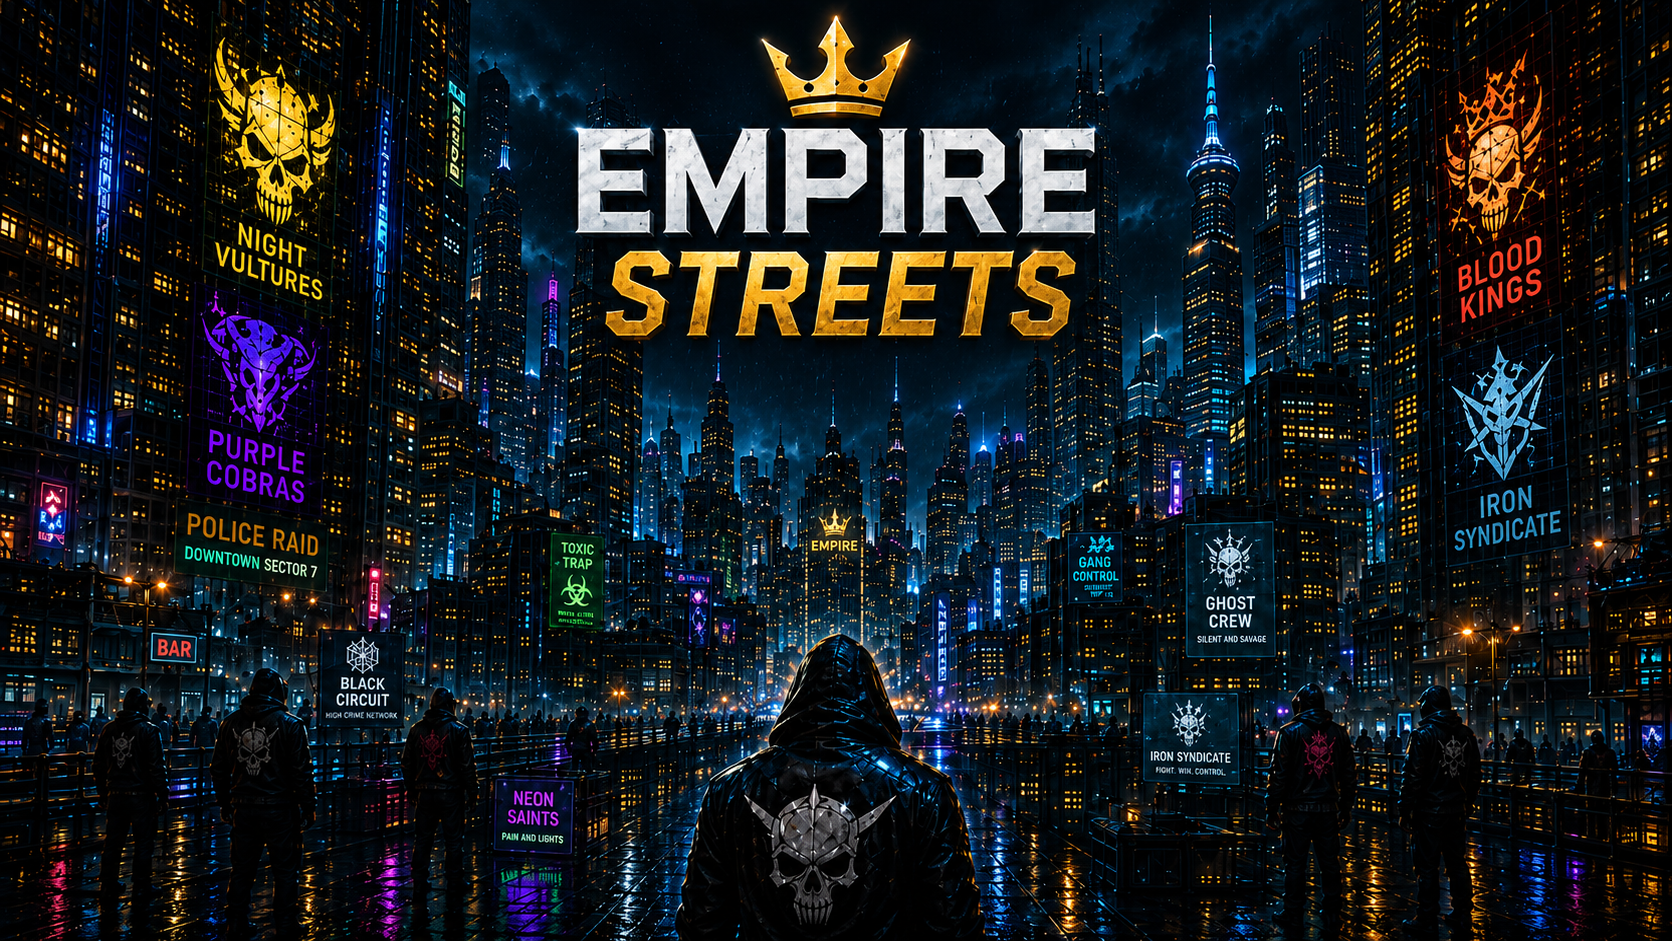
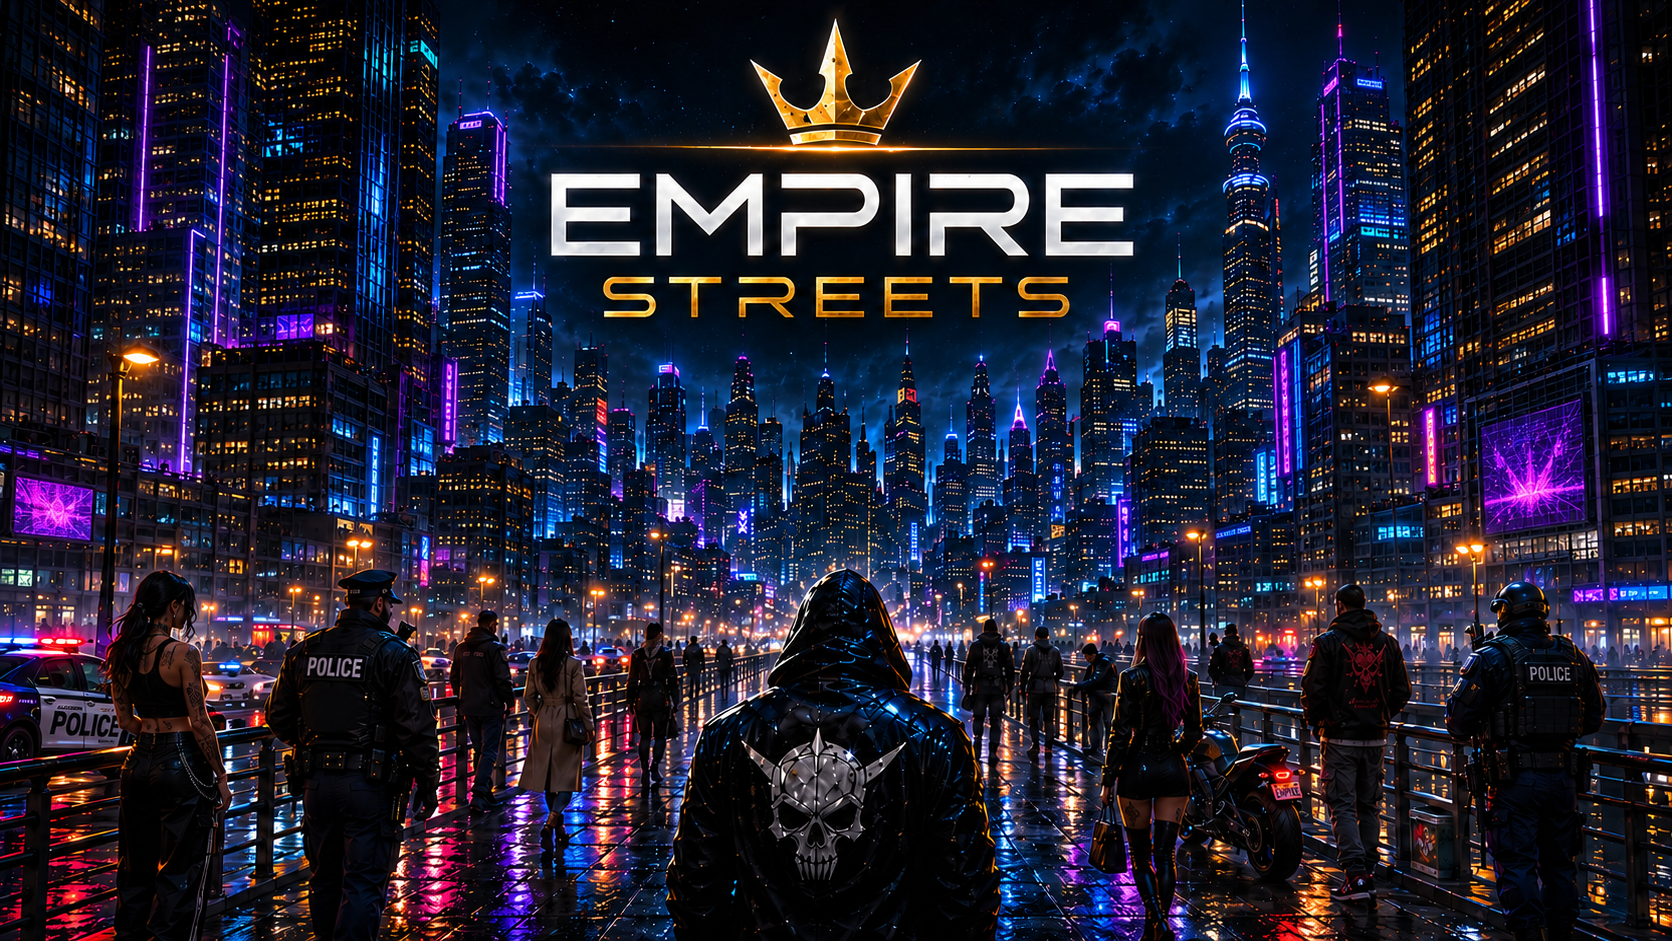
Polish responsive login artwork

diff --git a/page-assets/css/login.css b/page-assets/css/login.css
@@ -69,18 +69,11 @@ body.login-body::after {
 }
 
 body.login-body::before {
-  opacity: 0.3;
-  mix-blend-mode: screen;
-  background:
-    repeating-linear-gradient(90deg, rgba(255, 255, 255, 0.025) 0 1px, transparent 1px 3px),
-    repeating-linear-gradient(0deg, rgba(255, 255, 255, 0.04) 0 1px, transparent 1px 5px);
+  display: none;
 }
 
 body.login-body::after {
-  opacity: 0.08;
-  background-image: radial-gradient(circle at 50% 50%, #fff 0 0.6px, transparent 0.8px);
-  background-size: 5px 5px;
-  animation: noiseDrift 2.8s steps(2) infinite;
+  display: none;
 }
 
 .login-stage {
@@ -223,44 +216,9 @@ body.login-body::after {
   inset: 0;
   z-index: 31;
   pointer-events: none;
-  background:
-    linear-gradient(180deg, rgba(5, 8, 15, 0.22), rgba(2, 4, 10, 0.46)),
-    url("../../img/tapeta2.png") center / cover no-repeat,
-    url("../../img/loginmenu.png") center / cover no-repeat;
-  filter: saturate(0.98) contrast(1.02) brightness(0.82);
-  clip-path: polygon(
-    50% 70.8%,
-    48.9% 71.6%,
-    48.4% 73.1%,
-    47.5% 75.3%,
-    47.1% 77.4%,
-    46.7% 79.6%,
-    46.2% 81.8%,
-    45.9% 84%,
-    44.6% 86.2%,
-    43.1% 88.3%,
-    42.3% 90.5%,
-    42% 92.7%,
-    41.6% 94.9%,
-    41.3% 97.1%,
-    40.9% 100%,
-    58.1% 100%,
-    58% 97.1%,
-    57.9% 94.9%,
-    57.4% 92.7%,
-    56.9% 90.5%,
-    56% 88.3%,
-    54.1% 86.2%,
-    53.6% 84%,
-    53.6% 81.8%,
-    53.2% 79.6%,
-    52.7% 77.4%,
-    52.4% 75.3%,
-    51.8% 73.1%,
-    51.1% 71.6%
-  );
-  -webkit-mask-image: linear-gradient(180deg, transparent 0 69.6%, #000 71.2%, #000 100%);
-  mask-image: linear-gradient(180deg, transparent 0 69.6%, #000 71.2%, #000 100%);
+  background: url("../../img/tapeta2.png") center / cover no-repeat;
+  -webkit-mask: url("../../img/tapeta2-character-mask.svg") center / cover no-repeat;
+  mask: url("../../img/tapeta2-character-mask.svg") center / cover no-repeat;
 }
 
 .hud-panel,
@@ -2450,17 +2408,26 @@ body.login-body::after {
   text-shadow: 0 0 12px rgba(255, 231, 167, 0.92);
 }
 
-.login-footer {
+.login-footer,
+.login-legal-links {
   position: fixed;
-  right: 24px;
-  bottom: 18px;
   z-index: 10;
   display: flex;
   gap: 18px;
 }
 
-.login-footer a,
-.login-footer button {
+.login-footer {
+  right: 24px;
+  bottom: 18px;
+}
+
+.login-legal-links {
+  top: 18px;
+  left: 24px;
+}
+
+.login-footer button,
+.login-legal-links a {
   border: 0;
   color: color-mix(in srgb, var(--active-mode) 74%, rgba(232, 240, 255, 0.7));
   background: transparent;
@@ -2473,14 +2440,14 @@ body.login-body::after {
 }
 
 @media (min-width: 761px) {
-  .login-footer a,
-  .login-footer button {
+  .login-footer button,
+  .login-legal-links a {
     font-size: 0.92rem;
   }
 }
 
-.login-footer a:hover,
-.login-footer button:hover {
+.login-footer button:hover,
+.login-legal-links a:hover {
   color: #fff;
   text-shadow: 0 0 12px rgba(255, 255, 255, 0.84), 0 0 24px var(--active-mode), 0 0 44px var(--active-mode-soft);
 }
@@ -3124,7 +3091,7 @@ body.login-body::after {
     max-width: 100%;
     min-width: 0;
     min-height: 0;
-    margin-top: 280px;
+    margin-top: 220px;
     padding: 16px 18px 16px;
     clip-path: none;
   }
@@ -3143,6 +3110,29 @@ body.login-body::after {
     min-height: 0;
     margin-top: 20px;
     padding: 12px;
+  }
+
+  .login-legal-links {
+    position: relative;
+    inset: auto;
+    order: 99;
+    justify-content: center;
+    flex-wrap: wrap;
+    width: 100%;
+    margin: 28px 0 0;
+    padding: 0 4px;
+    gap: 8px 14px;
+    background: transparent;
+    border: 0;
+    border-radius: 0;
+    backdrop-filter: none;
+    -webkit-backdrop-filter: none;
+  }
+
+  .login-legal-links a {
+    font-size: 0.58rem;
+    line-height: 1.35;
+    text-align: center;
   }
 
   .leaderboard-list {

diff --git a/pages/login.html b/pages/login.html
@@ -66,6 +66,11 @@
         </div>
       </section>
 
+      <nav class="login-legal-links" aria-label="Právní informace">
+        <a href="/privacy.html">Ochrana osobních údajů</a>
+        <a href="/closed-alpha-terms.html">Podmínky closed alpha</a>
+      </nav>
+
       <section class="hud-panel active-events" aria-label="Aktivní události" data-login-active-events hidden>
         <div class="active-events__header">
           <h2>AKTIVNÍ UDÁLOSTI</h2>
@@ -172,8 +177,6 @@
       <button type="button" data-login-about-open>O hře</button>
       <button type="button" data-login-info-open="news">Novinky</button>
       <button type="button" data-login-info-open="help">Pomoc</button>
-      <a href="/privacy.html">Ochrana osobních údajů</a>
-      <a href="/closed-alpha-terms.html">Podmínky closed alpha</a>
     </nav>
 
     <div class="login-about-overlay login-about-overlay--encyclopedia" data-login-about-overlay data-about-tone="overview" hidden>